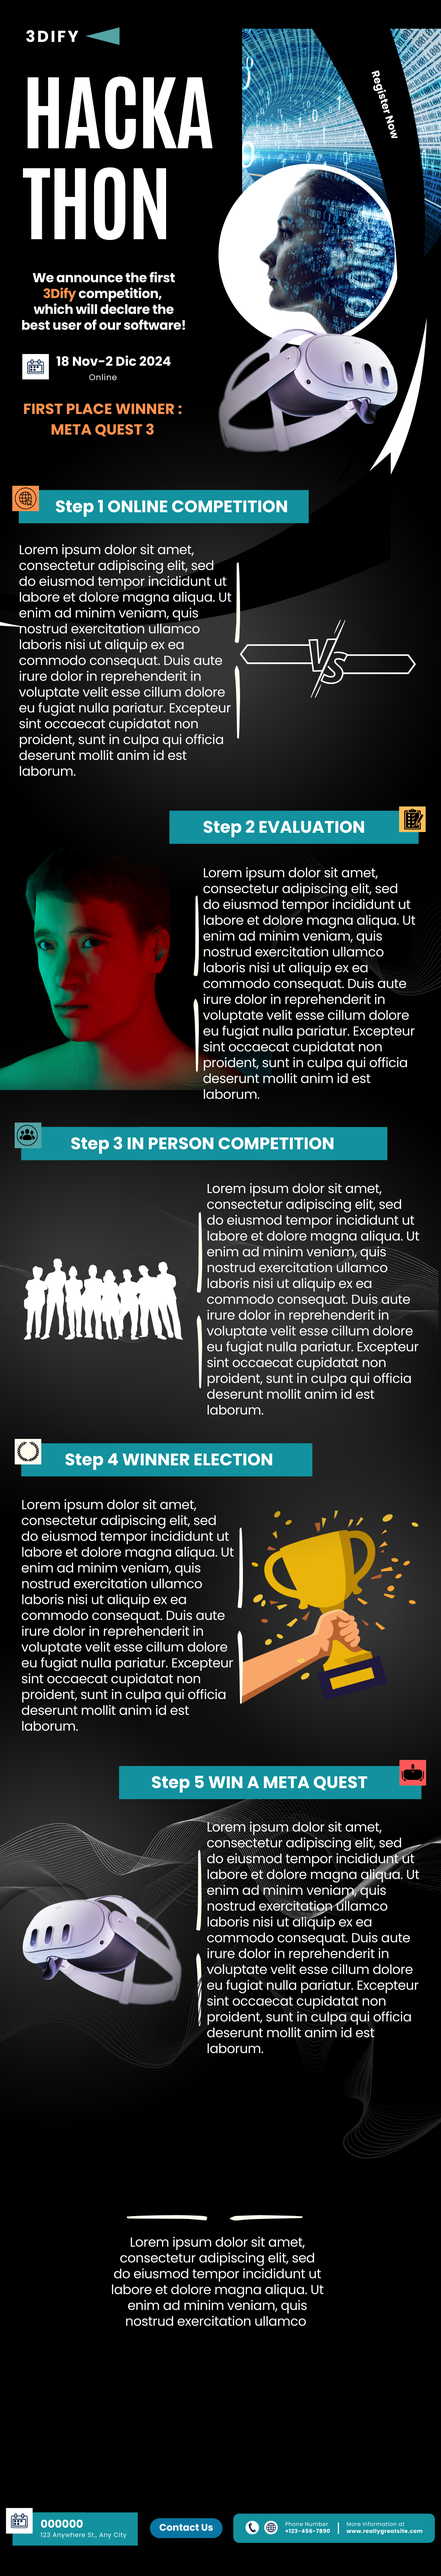
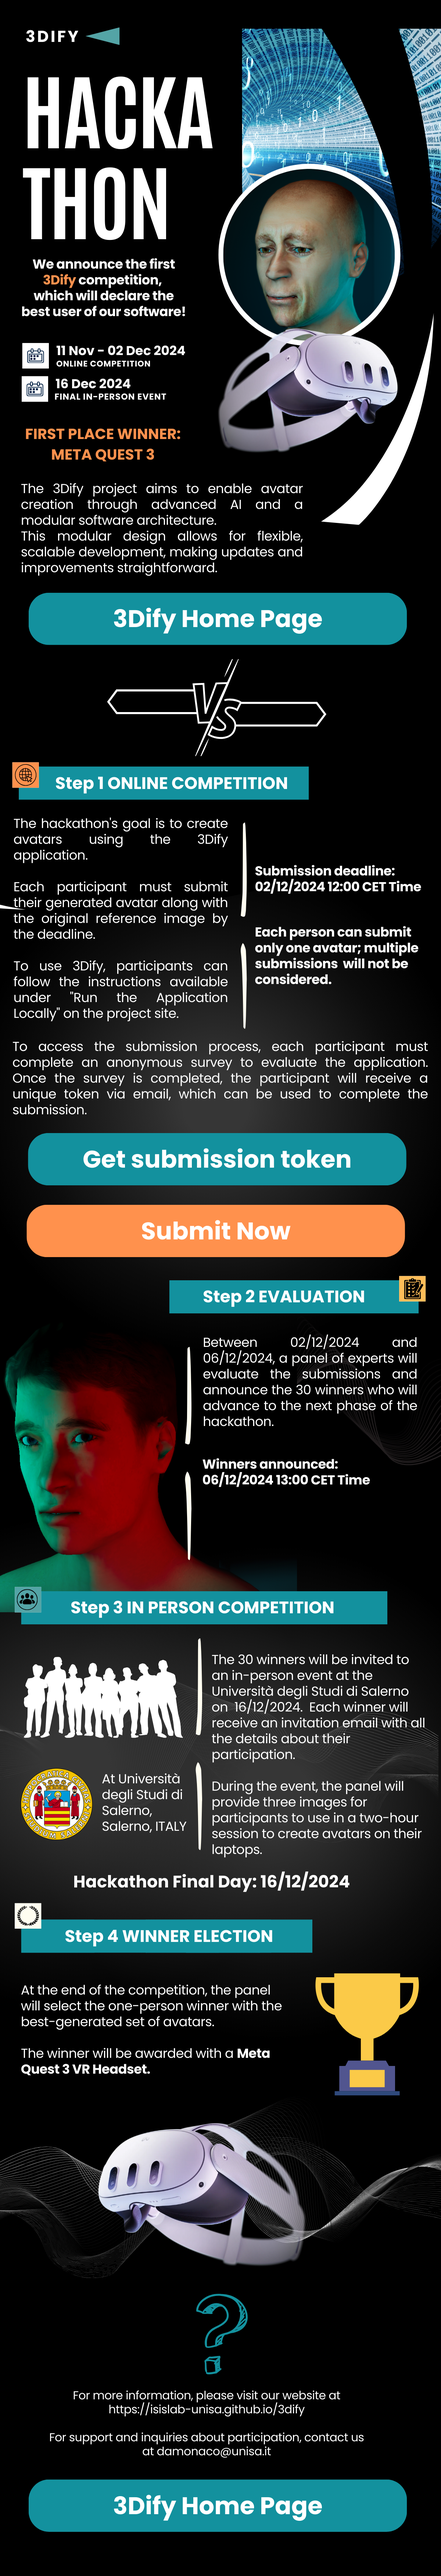
Modified Hackaton Page to add final poster and added links to survey and project homepage

diff --git a/HACKATON.md b/HACKATON.md
@@ -9,7 +9,6 @@
     min-height: 100vh;
     overflow-x: hidden;
   }
-  
   .fullpage-container {
     width: 100%;
     max-width: 100%;
@@ -17,7 +16,6 @@
     margin: 0;
     text-align: center;
   }
-
   .fullwidth-image {
     width: 100%;
     height: auto;
@@ -26,14 +24,21 @@
     margin: 0;
     padding: 0;
   }
+  .clickable-area {
+    position: absolute;
+    /* background-color: rgba(255, 0, 0, 1); */
+    cursor: pointer;
+  }
+
 </style>
 </head>
 <body>
-    <div class="fullpage-container">
-        <!-- Replace the placeholder URL with your actual image URL -->
-        <a href="https://forms.gle/bjiK3WhjRcrxDXGJ8">
-            <img class="fullpage-image" src="assets/HACKATON_3DIFY.png" alt="Fullpage image example">
-        </a>
+    <div class="fullpage-container" style="position: relative; width: 100%; height: auto;">
+        <img class="fullwidth-image" src="assets/HACKATON_3DIFY.png" alt="Fullpage image example">
+        <a href="https://example.com/area1" class="clickable-area" style="top: 23%; left: 7%; width: 85%; height: 2%;"></a>
+        <a href="https://example.com/area1" class="clickable-area" style="top: 44%; left: 7%; width: 85%; height: 2%;"></a>
+        <a href="https://example.com/area1" class="clickable-area" style="top: 46.8%; left: 7%; width: 85%; height: 2%;"></a>
+        <a href="https://example.com/area1" class="clickable-area" style="top: 96.25%; left: 7%; width: 85%; height: 2%;"></a>
     </div>
 </body>
 </html>
